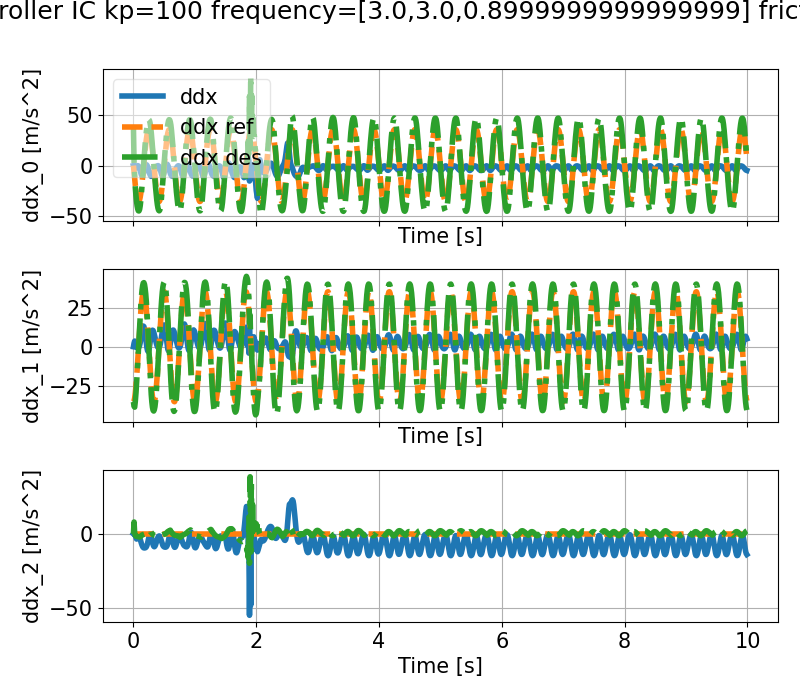
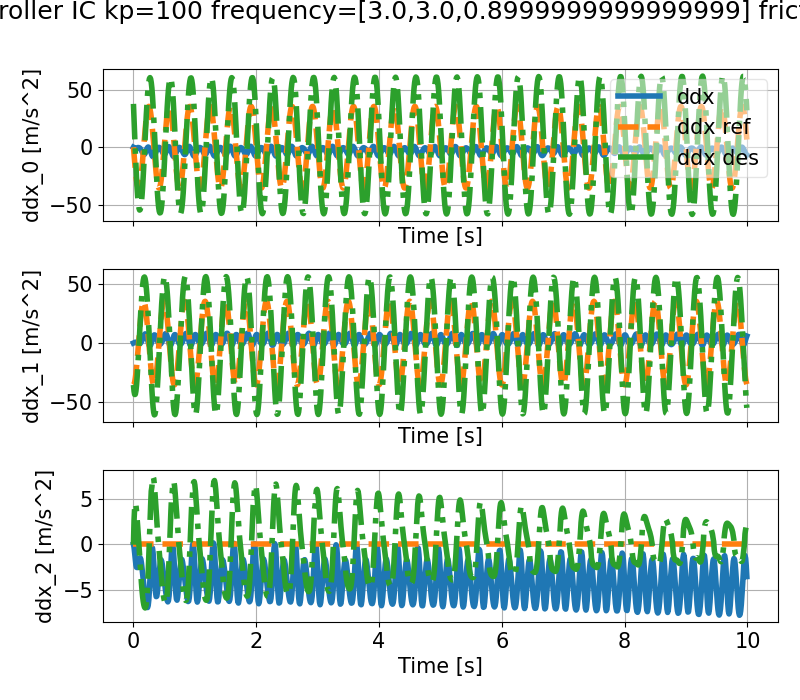
Pull immagini corrette

diff --git a/Homeworks/working_dir/A1_Di_Casola-Sterlini.py b/Homeworks/working_dir/A1_Di_Casola-Sterlini.py
@@ -15,10 +15,10 @@ print("".center(conf.LINE_WIDTH,'#'))
 print(" Manipulator: Impedence Control vs. Operational Space Control vs. Inverse Kinematics + Inverse Dynamics ".center(conf.LINE_WIDTH, '#'))
 print("".center(conf.LINE_WIDTH,'#'), '\n')
 
-PLOT_TORQUES = 0
+PLOT_TORQUES = 1
 PLOT_EE_POS = 0
-PLOT_EE_VEL = 0
-PLOT_EE_ACC = 0
+PLOT_EE_VEL = 1
+PLOT_EE_ACC = 1
 
 r = loadUR()
 robot = RobotWrapper(r.model, r.collision_model, r.visual_model)
@@ -27,15 +27,15 @@ if conf.TRACK_TRAJ:
     tests = []
     
     if conf.randomize_robot_model:
-        tests += [{'controller': 'OSC', 'kp': 500,  'frequency': np.array([1.0, 1.0, 0.3]),   'friction': 2}]
-        tests += [{'controller': 'IC',  'kp': 1.5,    'frequency': np.array([1.0, 1.0, 0.3]),   'friction': 2}]
-        tests += [{'controller': 'OSC', 'kp': 500,  'frequency': 3*np.array([1.0, 1.0, 0.3]), 'friction': 2}]
-        tests += [{'controller': 'IC',  'kp': 1.5,    'frequency': 3*np.array([1.0, 1.0, 0.3]), 'friction': 2}]
+        tests += [{'controller': 'OSC', 'kp': 100,  'frequency': np.array([1.0, 1.0, 0.3]),   'friction': 2}]
+        #tests += [{'controller': 'IC',  'kp': 1.5,    'frequency': np.array([1.0, 1.0, 0.3]),   'friction': 2}]
+        tests += [{'controller': 'OSC', 'kp': 100,  'frequency': 3*np.array([1.0, 1.0, 0.3]), 'friction': 2}]
+        #tests += [{'controller': 'IC',  'kp': 1.5,    'frequency': 3*np.array([1.0, 1.0, 0.3]), 'friction': 2}]
     else:
-        tests += [{'controller': 'OSC', 'kp': 850,  'frequency': np.array([1.0, 1.0, 0.3]),   'friction': 2}]
-        tests += [{'controller': 'IC',  'kp': 3,    'frequency': np.array([1.0, 1.0, 0.3]),   'friction': 2}]
-        tests += [{'controller': 'OSC', 'kp': 850,  'frequency': 3*np.array([1.0, 1.0, 0.3]), 'friction': 2}]
-        tests += [{'controller': 'IC',  'kp': 3,    'frequency': 3*np.array([1.0, 1.0, 0.3]), 'friction': 2}]
+        tests += [{'controller': 'OSC', 'kp': 100,  'frequency': np.array([1.0, 1.0, 0.3]),   'friction': 2}]
+        tests += [{'controller': 'IC',  'kp': 100,    'frequency': np.array([1.0, 1.0, 0.3]),   'friction': 2}]
+        tests += [{'controller': 'OSC', 'kp': 100,  'frequency': 3*np.array([1.0, 1.0, 0.3]), 'friction': 2}]
+        tests += [{'controller': 'IC',  'kp': 100,    'frequency': 3*np.array([1.0, 1.0, 0.3]), 'friction': 2}]
 
 else:
     tests = []
@@ -112,6 +112,8 @@ for (test_id, test) in  enumerate(tests):
     t = 0.0
     PRINT_N = int(conf.PRINT_T/conf.dt)
     
+    e_tot = 0
+    
     # ============== FOR LOOP FOR EVERY SIMULATION STEP ===============
     for i in range(0, N):
         time_start = time.time()
@@ -151,9 +153,16 @@ for (test_id, test) in  enumerate(tests):
         #    dx[:,i] = J.dot(v[:,i])
         dJdq = robot.frameAcceleration(q[:,i], v[:,i], None, frame_id, False).linear
         
+        # error definitions
+        e = x_ref[:,i] - x[:,i]
+        e_tot = e_tot + e
+        e_plot[:, i] = e
+        de = dx_ref[:,i] - dx[:,i]
+        ki = 15
        
         # implement the components needed for your control laws here
-        ddx_fb = kp * (x_ref[:,i] - x[:,i]) + kd * (dx_ref[:,i] - dx[:,i])               # Feedback acceleration
+        #ddx_fb = kp * (x_ref[:,i] - x[:,i]) + kd * (dx_ref[:,i] - dx[:,i]) + ki * e_tot               # Feedback acceleration
+        ddx_fb = kp * (x_ref[:,i] - x[:,i]) + kd * (dx_ref[:,i] - dx[:,i])                          # Feedback acceleration
         ddx_des[:,i] = ddx_ref[:,i] + ddx_fb                                             # Desired acceleration
         # Operational space inertia matrix definition: Lam = (J . (M)^-1 . J^T)^-1
         Minv = inv(M)                                                                    # M^-1
@@ -166,8 +175,12 @@ for (test_id, test) in  enumerate(tests):
         # User defined damping and stiffness matrix
         # We want to make the oscillation critically damped like
         # damping_ratio = c/2*sqrt(k*m)
-        # Conservative choice if random_robot_model
-        k = 1e4
+        
+        # Initial k value
+        k = 1e3
+        # Improved k value
+        #k = 1e4
+
         if conf.randomize_robot_model:
             k = k*0.8
         ratio = 1
@@ -193,20 +206,12 @@ for (test_id, test) in  enumerate(tests):
         tau_0 = M @ ddq_pos_des                                                                             # M*ddq_pos_des
         tau_01 = M @ ddq_pos_des + h                                                                        # M*ddq_pos_des
 
-        # error definitions
-        e = x_ref[:,i] - x[:,i]
-        e_plot[:, i] = e
-        de = dx_ref[:,i] - dx[:,i]
-
-
         # define the control laws here
         if conf.TRACK_TRAJ:
             if(test['controller']=='OSC'):      # Operational Space Control
                 tau[:,i] = np.transpose(J) @ f_d + NJ @ tau_01
 
             elif(test['controller']=='IC'):     # Impedence Control
-                # Additional tune to improve performance even though the use of kp notation is not correct since it's not a PID
-                e = e * kp
                 tau[:,i] = h + np.transpose(J) @ (K @ e + B @ de) + NJ @ tau_0
 
             else:

diff --git a/Homeworks/working_dir/A1_conf.py b/Homeworks/working_dir/A1_conf.py
@@ -31,7 +31,7 @@ tau_coulomb_max = 0
 simulation_type = 'timestepping'                    # either 'timestepping' or 'euler'
 
 # ====================== ALLOWED TO BE CHANGED ======================
-randomize_robot_model = 1
+randomize_robot_model = 0
 model_variation = 40.0
 
 # ====================== ALLOWED TO BE CHANGED ======================
